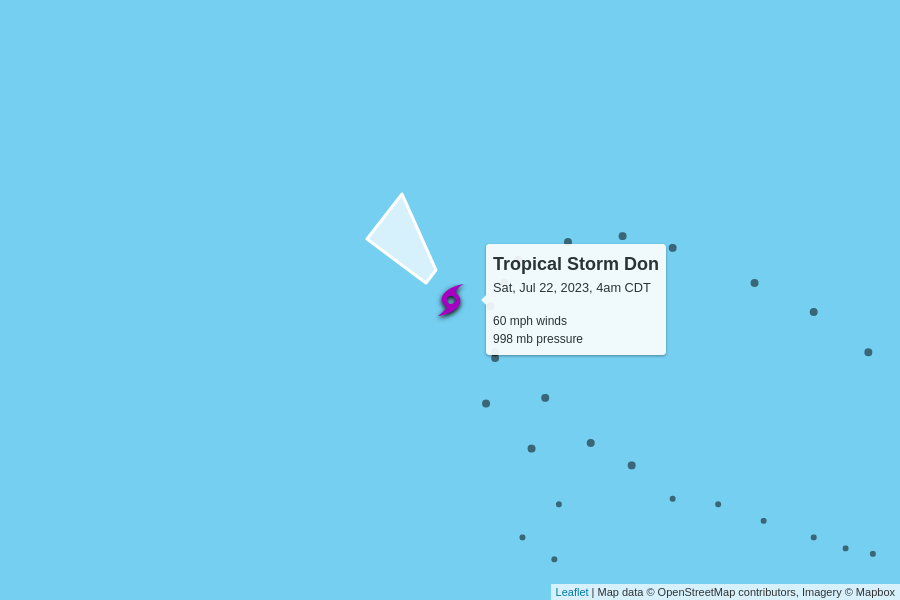
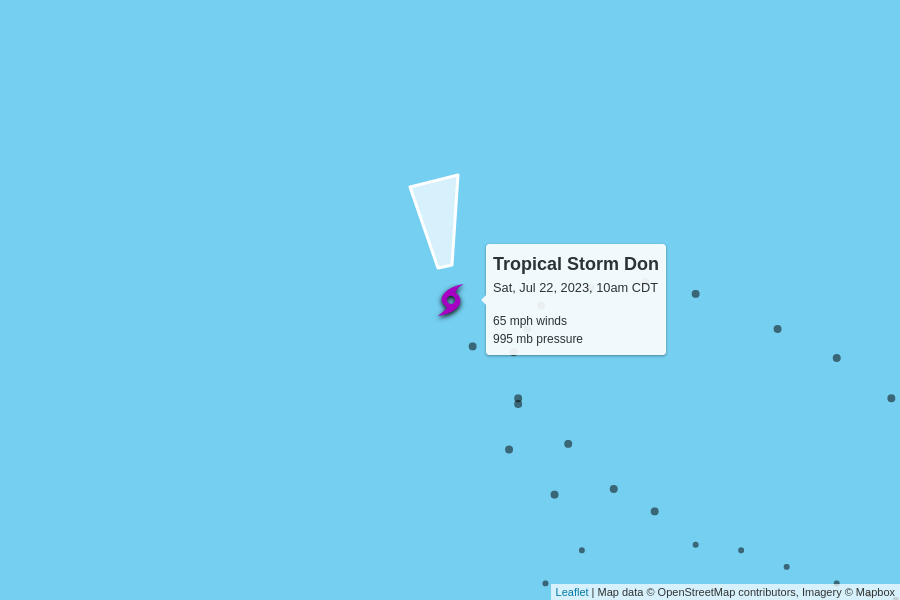
automatic update

diff --git a/docs/index.html b/docs/index.html
@@ -100,7 +100,7 @@
         <td colspan="6" class="storm category-0" >
           <h2>
             Tropical Storm Don
-            <p class="updated">last updated <span data-time>2023-07-22T09:00:00.000Z</span></p>
+            <p class="updated">last updated <span data-time>2023-07-22T15:00:00.000Z</span></p>
           </h2>
         </td>
       </tr>
@@ -115,12 +115,12 @@
       </tr>
       <tr>
         <td class="spacer"></td>
-        <td>60 mph</td>
-        <td>998 mb</td>
+        <td>65 mph</td>
+        <td>995 mb</td>
         <td>
-          14 mph to the northwest
+          13 mph to the north
           <br/>
-          <span style="display: inline-block; font-size: 1.5em; transform: rotate(315deg);">↑</span>
+          <span style="display: inline-block; font-size: 1.5em; transform: rotate(350deg);">↑</span>
         </td>
         <td><a href="https://raw.githubusercontent.com/mgwalker/atlantic-hurricanes/main/data/csv/AL052023.csv">AL052023.csv</a></td>
         <td><a href="https://www.nhc.noaa.gov/archive/2023/DON.shtml?">NHC advisories</a></td>
